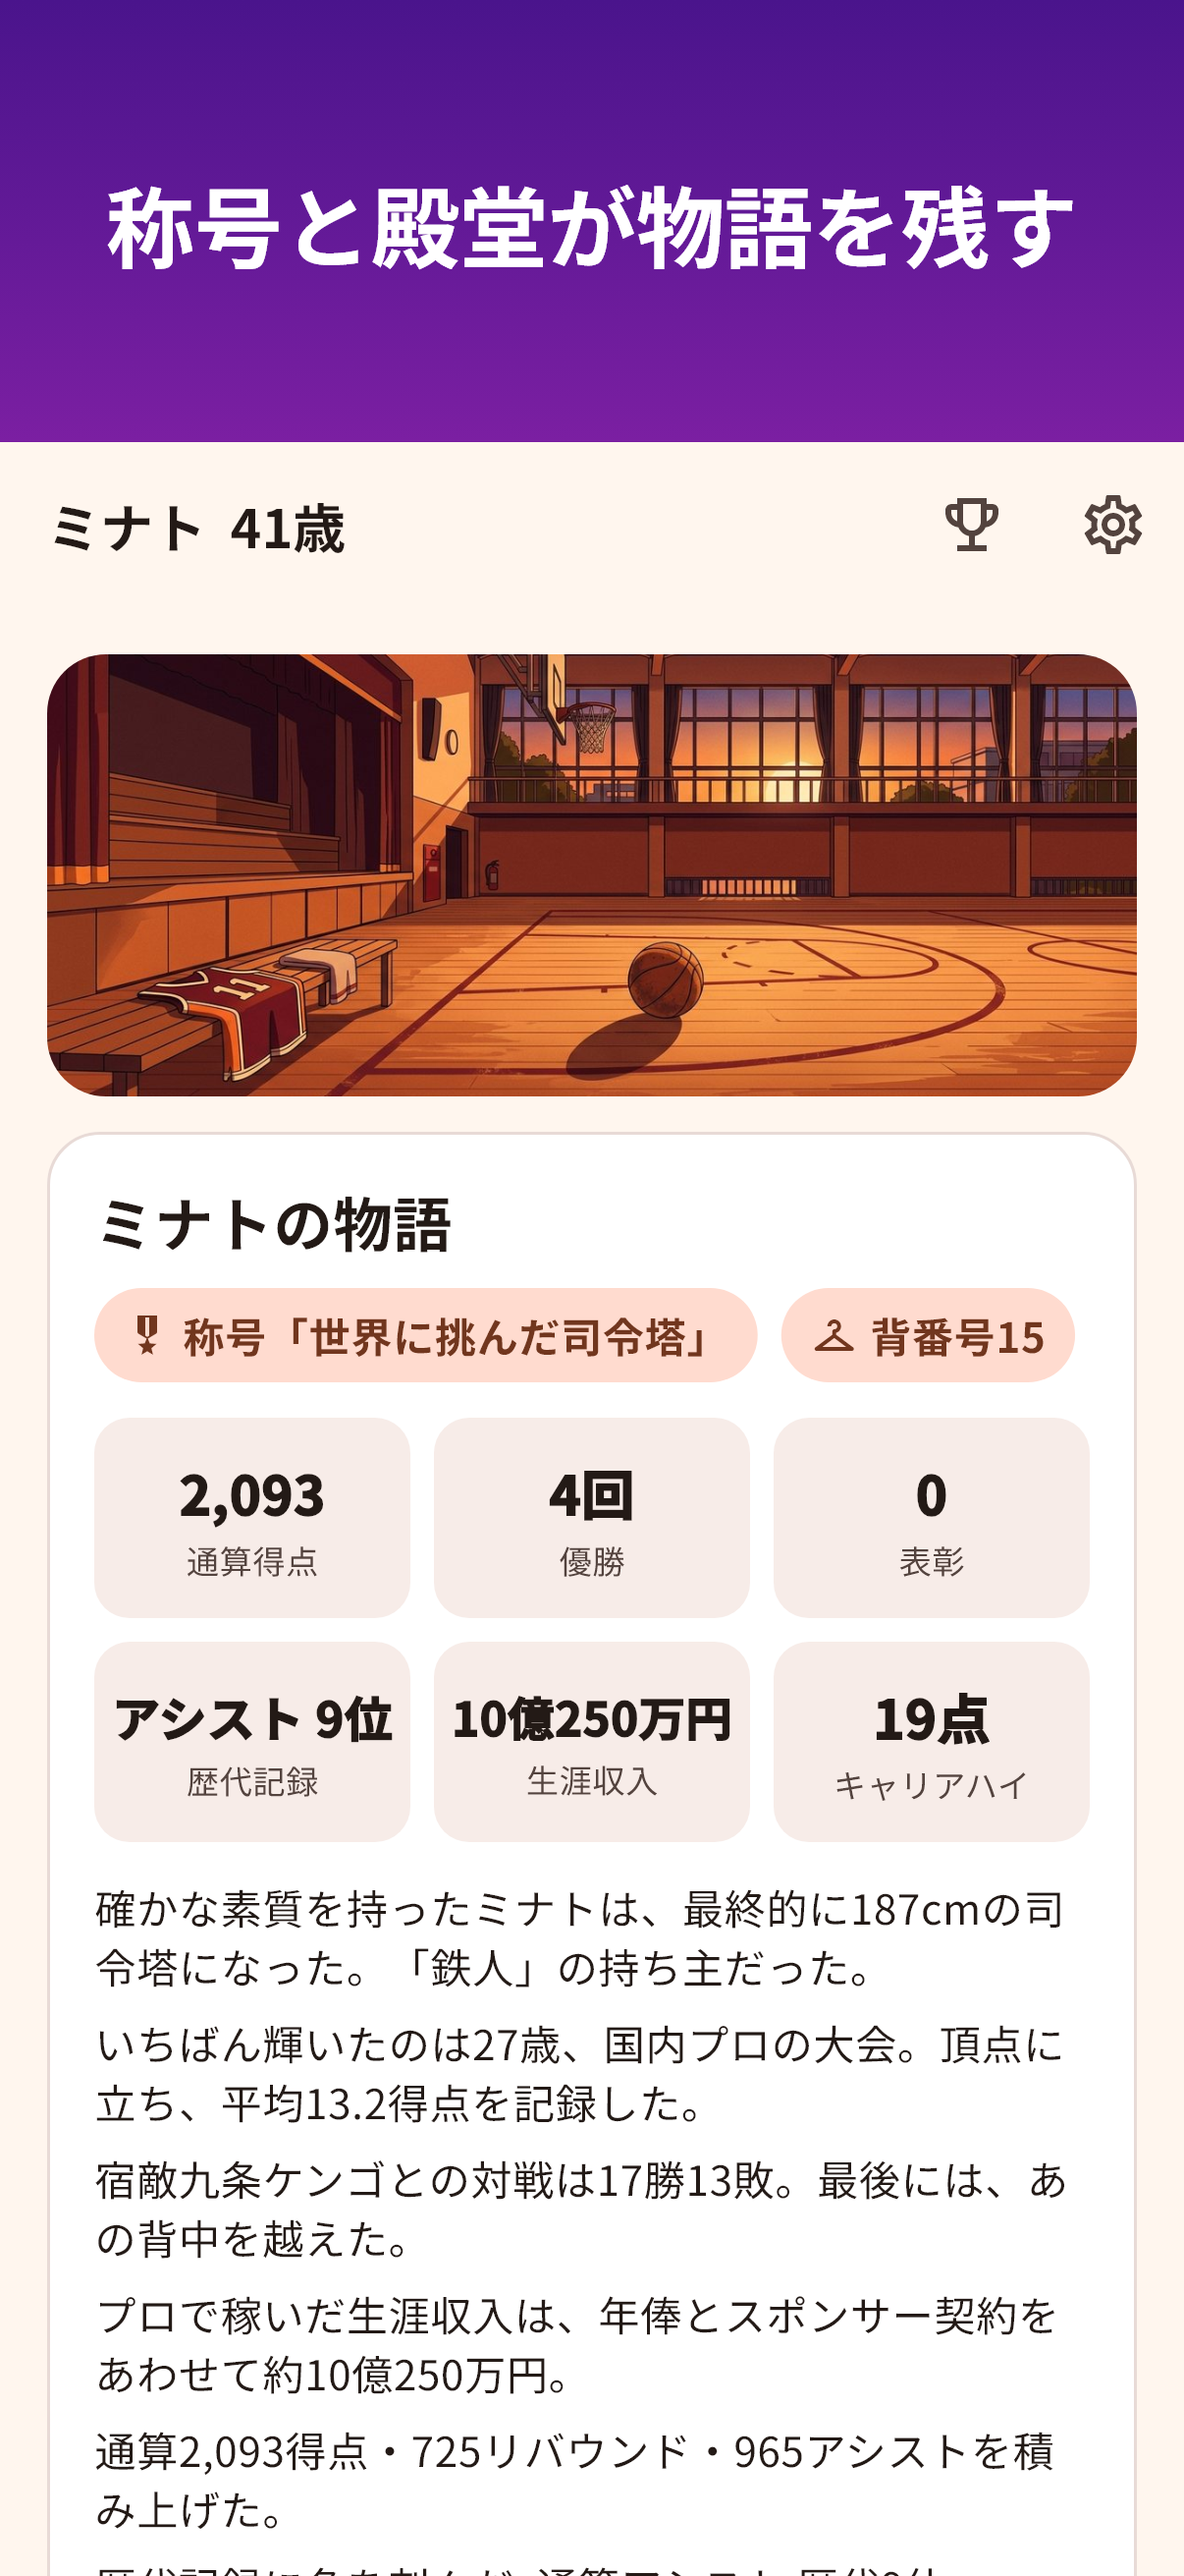
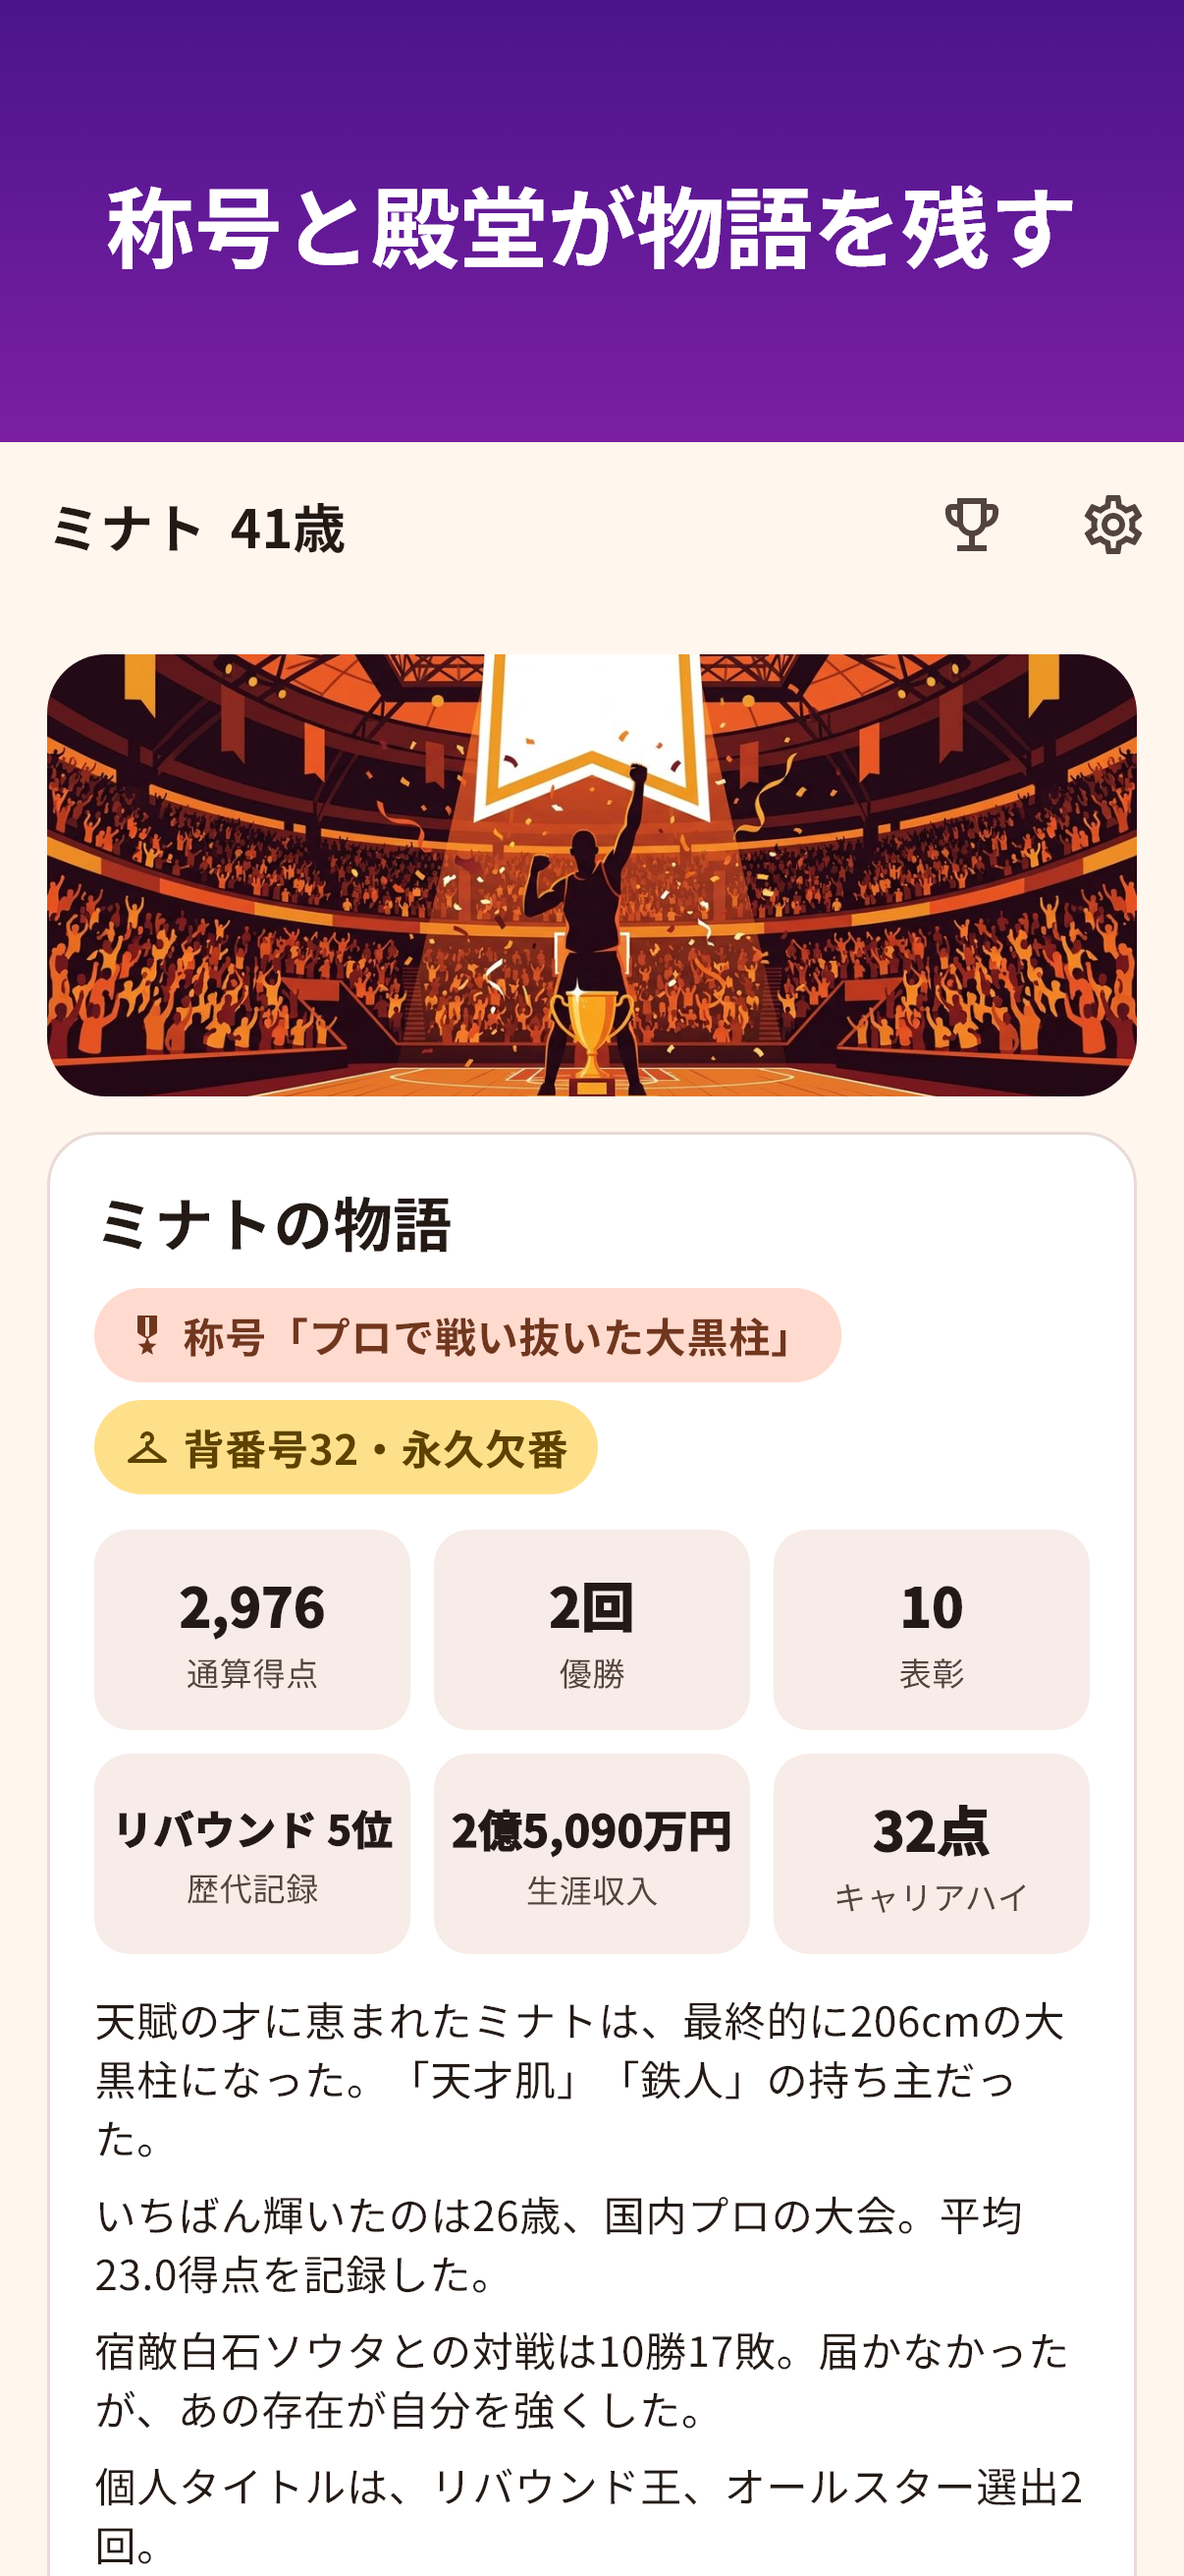
basketball-career: 掲載画像のエンディングは栄光の結末（表彰あり）を撮る

diff --git a/projects/basketball-career/tool/screenshots/capture_test.dart b/projects/basketball-career/tool/screenshots/capture_test.dart
@@ -30,6 +30,7 @@ import 'package:basketball_career/game/honors.dart';
 import 'package:basketball_career/game/skills.dart';
 import 'package:basketball_career/game/special.dart';
 import 'package:basketball_career/game/traits.dart';
+import 'package:basketball_career/game/epilogue.dart';
 import 'package:basketball_career/game/game.dart';
 import 'package:basketball_career/game/life.dart';
 import 'package:basketball_career/game/match.dart';
@@ -378,10 +379,8 @@ void main() {
       final g = Game.start('ミナト', rng: Random(seed), events: false);
       _play(g, untilAge: 60);
       // プロで優勝した一生(ミニバスの優勝で数を満たした人を拾わない)。
-      if (g.phase == Phase.retired &&
-          g.records.any((r) =>
-              r.champion &&
-              (r.league == League.proAbroad || r.league == League.proDomestic || r.league == League.national))) {
+      // 栄光の結末(満員の体育館の絵)で、表彰もある一生。
+      if (g.phase == Phase.retired && gloriousEnding(g) && g.honorTotal > 0) {
         ending = _controller(g);
       }
     }
